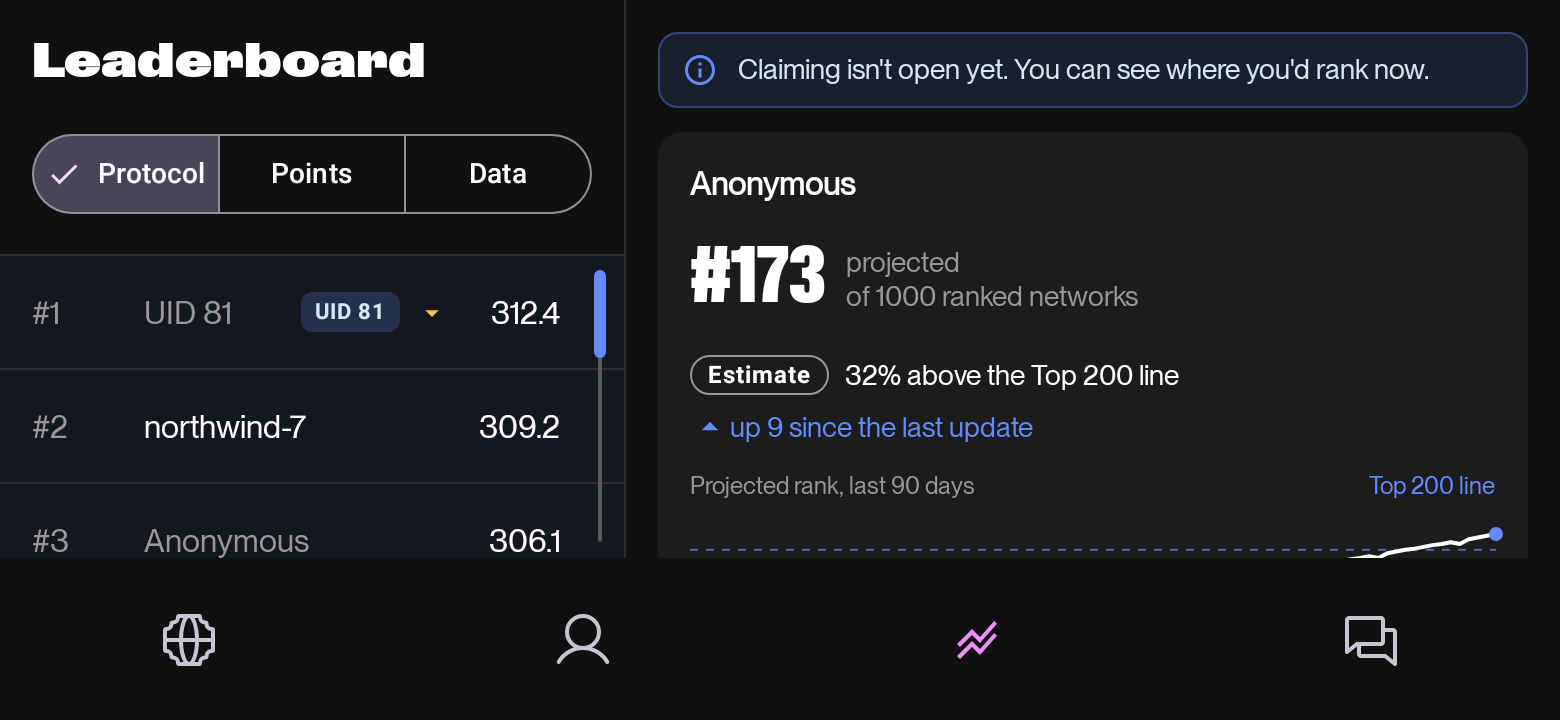
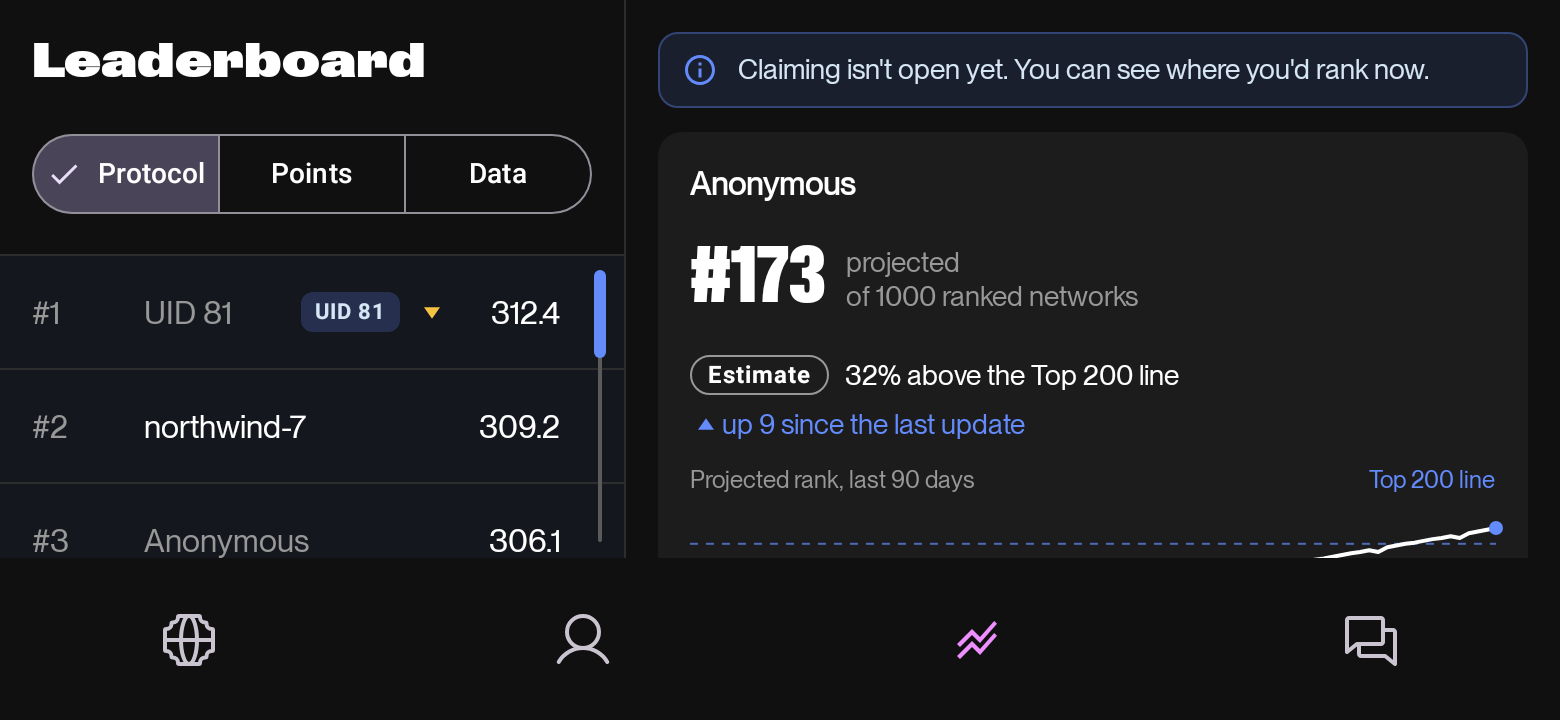
Draw the Protocol trend as a triangle and anchor the Earnings tests anew
Owner decision 2026-10-29 (LEADERTOP), follow-up to the Protocol tab:

- The trend arrows were the ArrowDropUp and ArrowDropDown glyphs, which
  LocalizedUiTextTest reads as an expand-or-collapse chevron whose state
  TalkBack is not told. They are a direction, said in words by the row
  and the card, so they are now a small drawn triangle, as the mockup's
  ▲ and ▼; the leaderboard screenshots are re-recorded for it.
- SnLedgerWiringTest and SnConsentWiringTest found the end of Earnings'
  wallet block by the old /sn/head tile's `head?.let`; they now find it
  by the Top 200 tile's `when (top200) {`. The order they check is
  unchanged.

diff --git a/app/app/src/main/java/com/bringyour/network/ui/leaderboard/ProtocolLeaderboardTab.kt b/app/app/src/main/java/com/bringyour/network/ui/leaderboard/ProtocolLeaderboardTab.kt
@@ -31,8 +31,6 @@ import androidx.compose.foundation.rememberScrollState
 import androidx.compose.foundation.verticalScroll
 import androidx.compose.foundation.shape.RoundedCornerShape
 import androidx.compose.material.icons.Icons
-import androidx.compose.material.icons.filled.ArrowDropDown
-import androidx.compose.material.icons.filled.ArrowDropUp
 import androidx.compose.material.icons.outlined.Info
 import androidx.compose.material.icons.outlined.Schedule
 import androidx.compose.material.icons.outlined.VisibilityOff
@@ -695,6 +693,11 @@ internal fun ProtocolLabelChip(
     }
 }
 
+/**
+ * The trend's direction as a small triangle, up in the accent and down in
+ * amber; nothing when the position held. Decoration: the row and the card
+ * say the trend in words.
+ */
 @Composable
 private fun ProtocolTrendArrow(
     trend: Long,
@@ -703,12 +706,23 @@ private fun ProtocolTrendArrow(
     if (trend == 0L) {
         return
     }
-    Icon(
-        imageVector = if (0L < trend) Icons.Filled.ArrowDropUp else Icons.Filled.ArrowDropDown,
-        contentDescription = null,
-        tint = if (0L < trend) BlueMedium else Amber,
-        modifier = modifier.size(20.dp),
-    )
+    val up = 0L < trend
+    val color = if (up) BlueMedium else Amber
+    Canvas(modifier = modifier.size(16.dp)) {
+        val halfWidth = size.width * 0.25f
+        val halfHeight = size.height * 0.18f
+        val centerX = size.width / 2f
+        val centerY = size.height / 2f
+        val tip = if (up) centerY - halfHeight else centerY + halfHeight
+        val base = if (up) centerY + halfHeight else centerY - halfHeight
+        val triangle = Path().apply {
+            moveTo(centerX - halfWidth, base)
+            lineTo(centerX + halfWidth, base)
+            lineTo(centerX, tip)
+            close()
+        }
+        drawPath(path = triangle, color = color)
+    }
 }
 
 /**

diff --git a/app/app/src/test/java/com/bringyour/network/ui/wallet/SnConsentWiringTest.kt b/app/app/src/test/java/com/bringyour/network/ui/wallet/SnConsentWiringTest.kt
@@ -97,7 +97,7 @@ class SnConsentWiringTest {
         assertFalse(gated.contains("SnConsentBlock("))
         val ledger = content.indexOf("SnLedgerTileBlock(tile = it, onClaim = onOpenLedgerClaim, formatAlpha = formatAlpha)")
         val consent = content.indexOf("SnConsentBlock(")
-        assertTrue(0 <= ledger && ledger < consent && consent < content.indexOf("head?.let"))
+        assertTrue(0 <= ledger && ledger < consent && consent < content.indexOf("when (top200) {"))
         // hidden only without the protocol (signed out)
         assertTrue(screen.contains("consentTile = if (earningsViewModel.protocolAvailable) snConsentTile(consentState, consentStage) else null,"))
         assertTrue(screen.contains("onSignConsent = { earningsViewModel.consentFlow.start() },"))

diff --git a/app/app/src/test/java/com/bringyour/network/ui/wallet/SnLedgerWiringTest.kt b/app/app/src/test/java/com/bringyour/network/ui/wallet/SnLedgerWiringTest.kt
@@ -51,7 +51,7 @@ class SnLedgerWiringTest {
     fun `the v2 tile sits under the v1 unclaimed tile, which is unchanged`() {
         // UX-1
         val screen = source("EarningsScreen.kt")
-        val walletBlock = between(screen, "if (wallet != null) {\n                    Spacer", "head?.let")
+        val walletBlock = between(screen, "if (wallet != null) {\n                    Spacer", "when (top200) {")
         val unclaimed = walletBlock.indexOf("UnclaimedTile(")
         val ledger = walletBlock.indexOf("SnLedgerTileBlock(tile = it, onClaim = onOpenLedgerClaim, formatAlpha = formatAlpha)")
         assertTrue(0 <= unclaimed && unclaimed < ledger)
